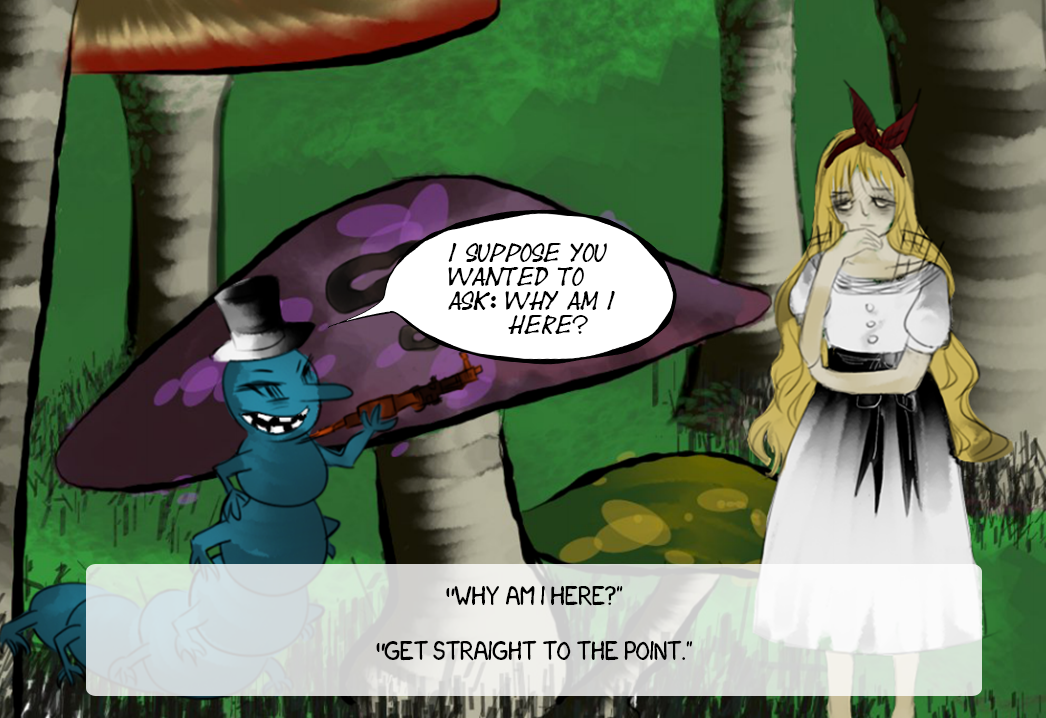
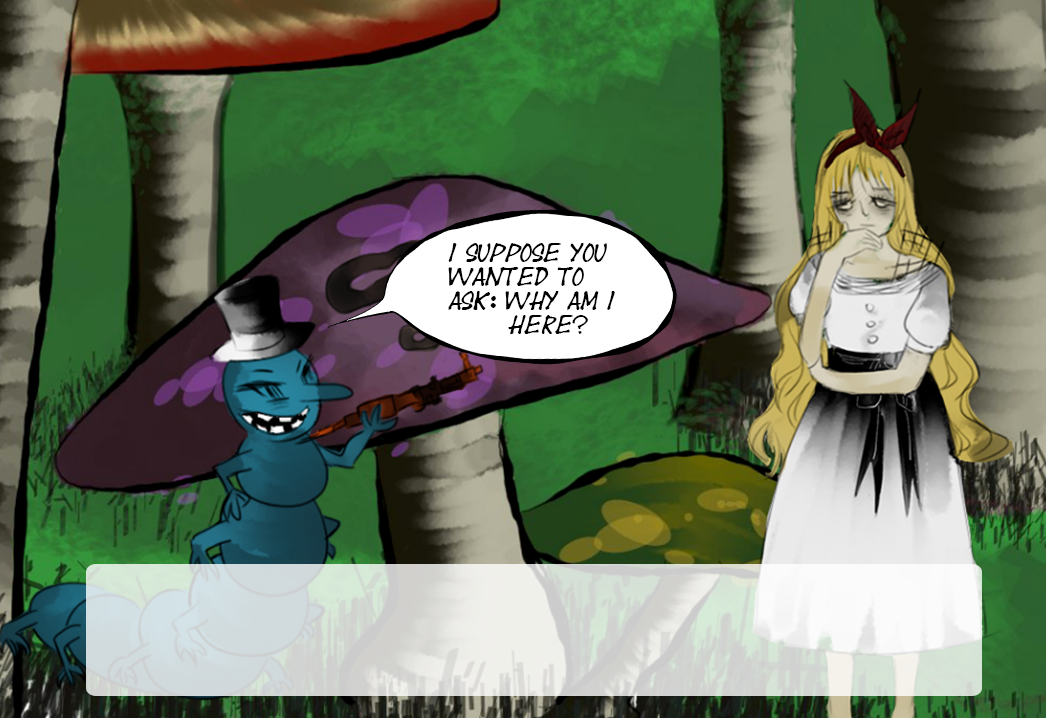
add till panel 14

Changed region(s): [[0.4283, 0.7967, 0.5813, 0.8579], [0.3671, 0.8886, 0.673, 0.9192]]

diff --git a/alice_12.html b/alice_12.html
@@ -13,7 +13,20 @@
 <body>
 	<div id="container" style="text-align:center">
 		<h1 class="title">- Alice In Wonderland -</h1>
-		<a href="alice_13.html"><img src="images/12.png" style="width:70%"></a>
+		<img src="images/12.png" style="width:70%">
+		<div id="responses">
+			<p class="response-1">"WHY AM I HERE?"</p>
+			<p class="response-2">"GET STRAIGHT TO THE POINT"</p>
+		</div>
 	</div>
 </body>
+
+<script type="text/javascript">
+	$(".response-1").click(function() {
+		chooseOption(0, 13);
+	});
+	$(".response-2").click(function() {
+		chooseOption(0, 13);
+	});
+</script>
 </html>

diff --git a/alice_10.html b/alice_10.html
@@ -16,8 +16,8 @@
 		<img src="images/10.png" style="width:70%">
 		<p class="choose_response">CHOOSE ALICE'S RESPONSE:</p>
 		<div id="responses">
-			<p class="response-1">"WHAT IS THIS PLACE, AND WHO ARE YOU, SIR?"</p>
-			<p class="response-2">"SNAP OUT OF IT, WHAT ARE YOU EXACTLY?"</p>
+			<p class="response-1" style="top:74%">"WHAT IS THIS PLACE, AND WHO ARE YOU, SIR?"</p>
+			<p class="response-2" style="top:79%">"SNAP OUT OF IT, WHAT ARE YOU EXACTLY?"</p>
 		</div>
 	</div>
 </body>

diff --git a/css/style.css b/css/style.css
@@ -27,7 +27,7 @@
 .response-1 {
 	cursor: hand;
 	position: absolute;
-	top: 73%;
+	top: 72%;
 	margin-top: 5%;
 	width: 100%;
 	left: auto;
